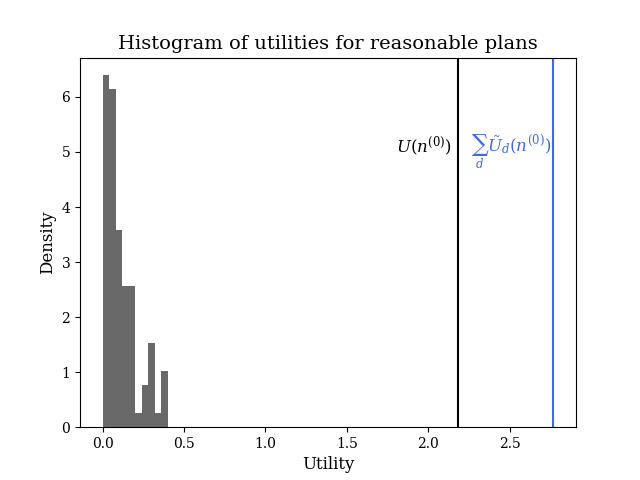
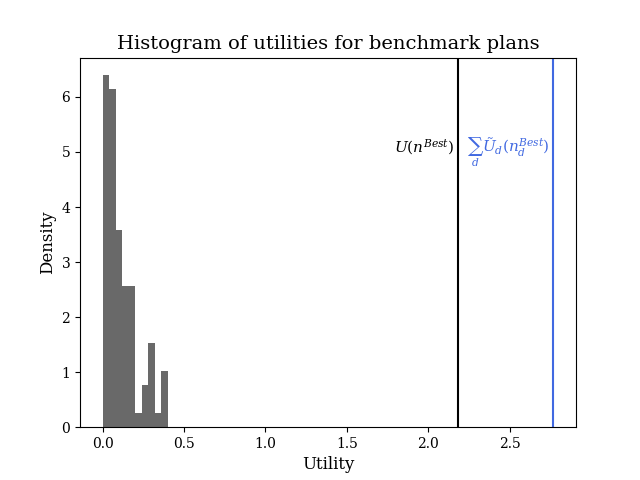
feasible non-dom path debugged

Changed region(s): [[0.1875, 0.0625, 0.8438, 0.125], [0.625, 0.2812, 0.875, 0.3438]]

diff --git a/operationalizedsamplingplans.py b/operationalizedsamplingplans.py
@@ -256,6 +256,8 @@ lgdict['postSamples'] = tempobj
 # Print inference from initial data
 util.plotPostSamples(lgdict, 'int90')
 
+
+
 # Generate Q via bootstrap sampling of known traces
 numvisitedTNs = np.count_nonzero(np.sum(lgdict['Q'],axis=1))
 numboot = 20 # Average across each department in original data
@@ -597,9 +599,9 @@ def FindTSPPathForGivenNodes(reglist, f_reg):
     nonHQindlist = reglist[1:]
     permutlist = list(itertools.permutations(nonHQindlist))
     currbestcost = np.inf
-    currind = HQind
     currbesttup = 0
     for permuttuple in permutlist:
+        currind = HQind
         currpermutcost = 0
         for ind in permuttuple:
             currpermutcost += f_reg[currind, ind]
@@ -875,9 +877,9 @@ plt.show()
 # interpolated junctures, as percentage of upper bound
 juncvecperc = [juncvec[i]/bds[i] for i in range(len(juncvec))]
 plt.hist(juncvecperc, color='darkgreen', density=True)
-plt.title('Histogram of interpolation junctures vs. allocation bounds\n($j_d/'+r'\bar{n}_d$ values)',
+plt.title('Histogram of interpolation junctures vs. allocation bounds\n($h_d/'+r'n^{max}_d$ values)',
           fontsize=14)
-plt.xlabel(r'$j_d/\bar{n}_d$',fontsize=12)
+plt.xlabel(r'$h_d/n^{max}_d$',fontsize=12)
 plt.ylabel('Density',fontsize=12)
 plt.show()
 
@@ -954,17 +956,21 @@ def scipytoallocation(spo_x, eliminateZeros=False):
     # Print district name with
     for distind, distname in enumerate(deptNames):
         if not eliminateZeros:
-            print(str(distname)+':', str(int(z[distind])), str(int(n1[distind])), str(int(n2[distind])))
+            print(str(distname)+', '+ str(round(juncvec[distind], 3))+', '+\
+                  str(round(dept_df_sort.iloc[distind]['DeptFixedCostDays'],3)) +':', str(int(z[distind])),
+                  str(int(n1[distind])), str(int(n2[distind])))
         else: # Remove zeros
             if int(z[distind])==1:
-                print(str(distname) + ':', str(int(z[distind])), str(int(n1[distind])), str(int(n2[distind])))
+                print(str(distname)+', '+str(round( juncvec[distind], 3))+', '+\
+                      str(round(dept_df_sort.iloc[distind]['DeptFixedCostDays'],3))+':', str(int(z[distind])),
+                      str(int(n1[distind])), str(int(n2[distind])))
     pathstr = ''
     for regind in path:
         pathstr = pathstr + str(regNames[regind]) + ' '
     print('Path: '+ pathstr)
     return
 
-scipytoallocation(spoOutput.x, eliminateZeros=True)
+scipytoallocation(spoOutput.x, eliminateZeros=False)
 
 ### Inspect our solution
 # How does our utility value compare with the real utility?
@@ -1120,16 +1126,17 @@ with open(os.path.join('operationalizedsamplingplans', 'numpy_objects', 'compare
 utilhistvals = []
 for i in range(len(comparepathsdict['pathinds'].tolist())):
     utilhistvals.append(paramdict['baseloss'] - np.average(comparepathsdict['lossevals'][i]))
+
 fig, ax = plt.subplots()
 plt.hist(utilhistvals, color='dimgray', density=True)
-plt.title('Histogram of utilities for reasonable plans',
+plt.title('Histogram of utilities for benchmark plans',
           fontsize=14)
 plt.xlabel('Utility', fontsize=12)
 plt.ylabel('Density', fontsize=12)
 plt.axvline(x=2.7690379399483853, color='royalblue') # Approximation
 plt.axvline(x=2.184450706985116, color='black') # Evaluated utility
-ax.text(1.8,5,'$U(n^{(0)})$',fontsize=12)
-ax.text(2.26,5,r'$\sum_{d}\tilde{U}_{d}(n^{(0)})$',fontsize=12,color='royalblue')
+ax.text(1.79,5,'$U(n^{Best})$',fontsize=11)
+ax.text(2.24,5,r'$\sum_{d}\tilde{U}_{d}(n_{d}^{Best})$',fontsize=11,color='royalblue')
 plt.show()
 
 
@@ -1782,13 +1789,13 @@ ax.errorbar(xvals, utilvals, yerr=utilvalCIs, fmt='o',
             color='black', linewidth=0.5, capsize=1.5)
 # Plot the first Gain and noGain lists before everything else, so as to get the legend right
 lst = avoidcorrlist_Gain[0]
-ax.errorbar(lst[0],lst[1], yerr=[(lst[3]-lst[2])/2], fmt='x', markersize=5,
+ax.errorbar(lst[0],lst[1], yerr=[(lst[3]-lst[2])/2], fmt='^', markersize=6,
                 color='darkgreen',linewidth=0.5,capsize=1.5,alpha=0.4)
 lst = avoidcorrlist_noGain[0]
 ax.errorbar(lst[0],lst[1], yerr=[(lst[3]-lst[2])/2], fmt='x', markersize=5,
                 color='crimson',linewidth=0.5,capsize=1.5,alpha=0.4)
 for lst in avoidcorrlist_Gain[1:]:
-    ax.errorbar(lst[0],lst[1], yerr=[(lst[3]-lst[2])/2], fmt='x', markersize=5,
+    ax.errorbar(lst[0],lst[1], yerr=[(lst[3]-lst[2])/2], fmt='^', markersize=6,
                 color='darkgreen',linewidth=0.5,capsize=1.5,alpha=0.4)
 for lst in avoidcorrlist_noGain[1:]:
     ax.errorbar(lst[0],lst[1], yerr=[(lst[3]-lst[2])/2], fmt='x', markersize=5,
@@ -1796,9 +1803,9 @@ for lst in avoidcorrlist_noGain[1:]:
 ax.set(xticks=xvals, ylim=(1., 3.1))
 plt.xticks(fontsize=8)
 plt.ylabel('Utility', fontsize=12)
-plt.xlabel('Path index', fontsize=12)
-plt.title('Second stage utility evaluations', fontsize=14)
-plt.legend(['RIP Objective (UB)', 'RIP Utility', 'AVOIDCORR: Gain', 'AVOIDCORR: No Gain'],
+plt.xlabel('Candidate index', fontsize=12)
+plt.title('Candidate solution evaluations', fontsize=14)
+plt.legend(['IP-RP Objective', 'Candidate Utility', 'AVOIDCORR: Gain', 'AVOIDCORR: No Gain'],
            fontsize=9, loc='upper right')
 plt.axhline(2.184450706985116, xmin=0.06, color='gray', linestyle='dashed', alpha=0.4) # Evaluated utility
 plt.show()
